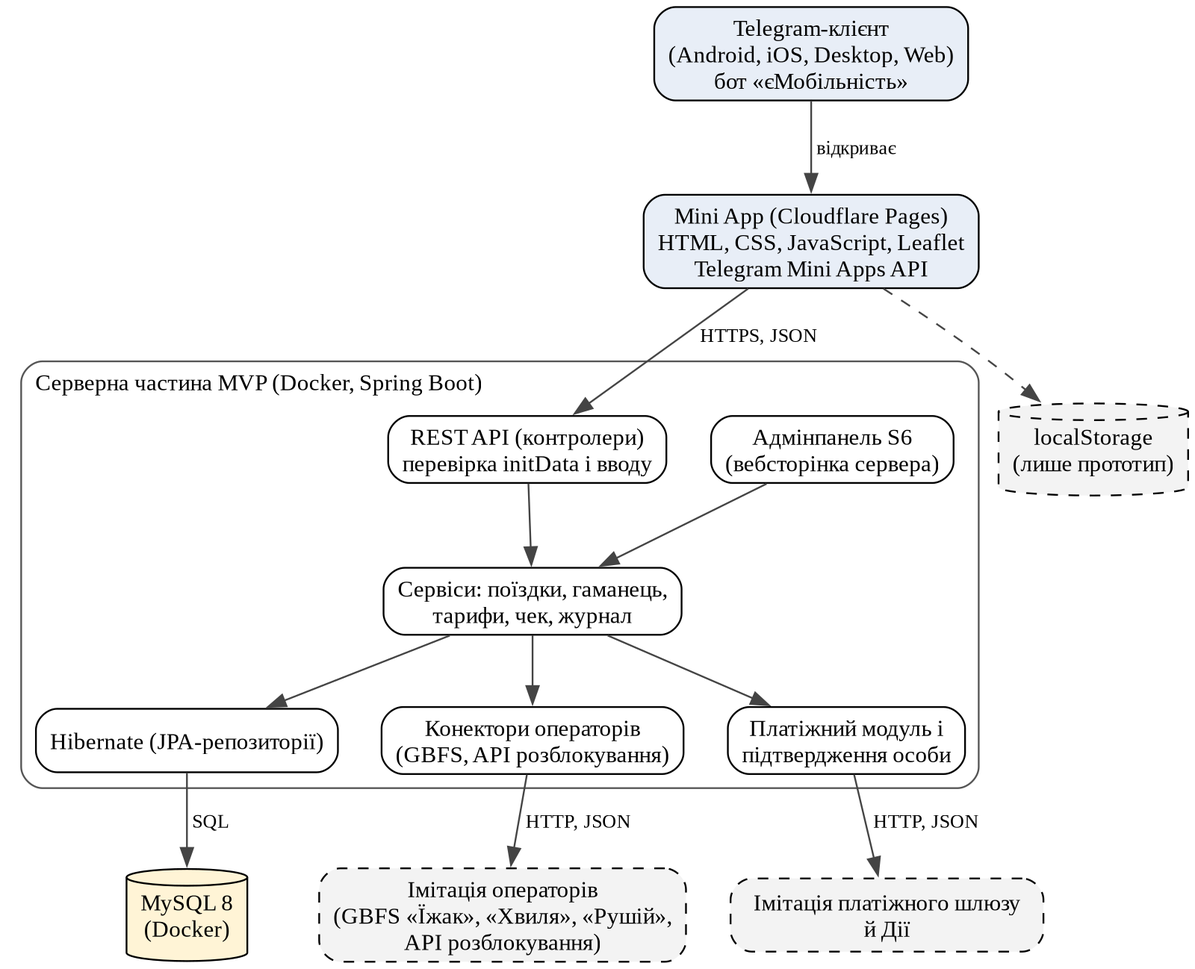
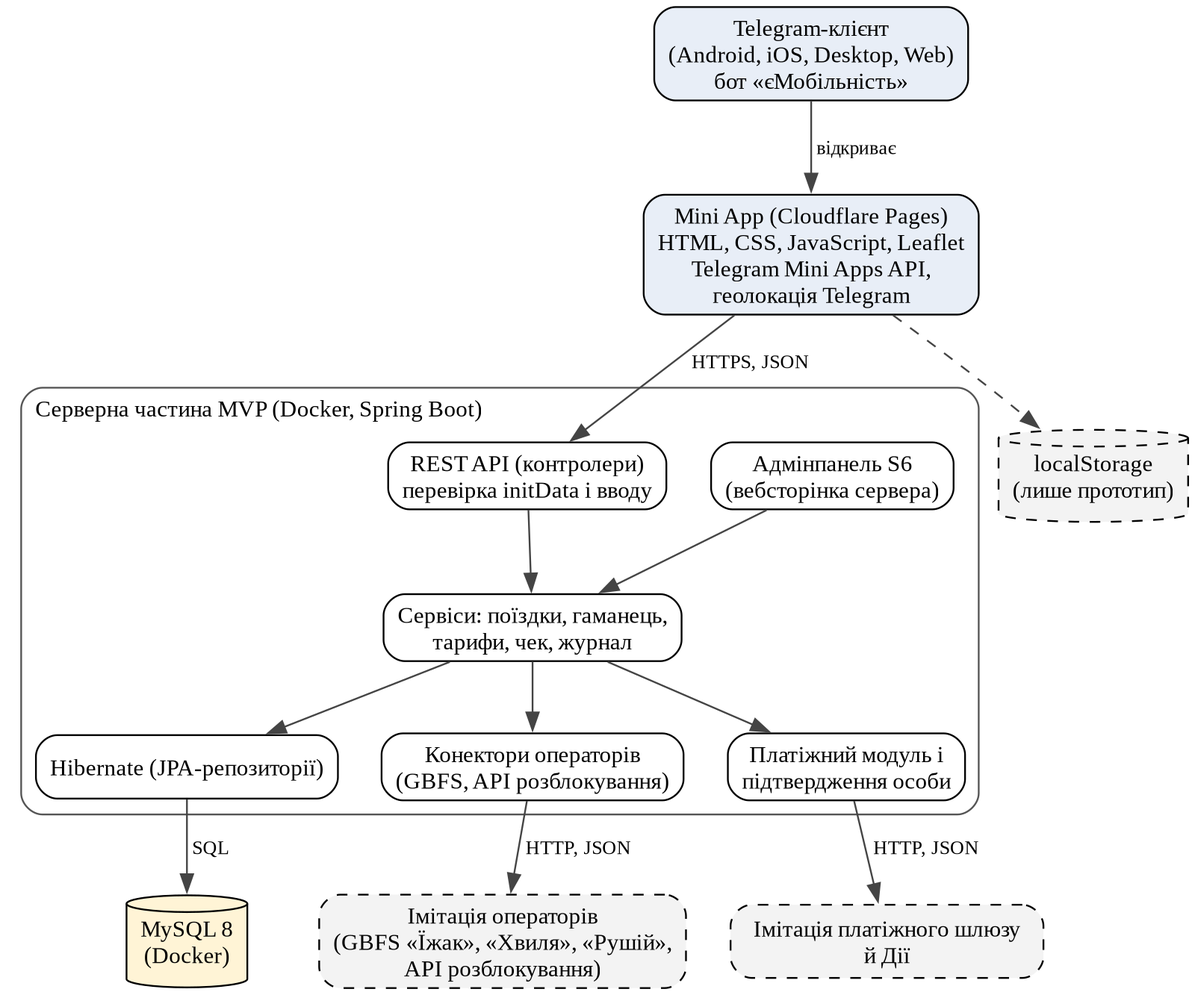
docs(dt): apply owner decisions to MVP spec

diff --git a/digital_tech/tz/report.md b/digital_tech/tz/report.md
@@ -20,7 +20,7 @@
 
 # 3 ПРИЗНАЧЕННЯ РОЗРОБКИ
 
-Розробка призначена для подолання фрагментації ринку мікромобільності. Зараз користувач тримає окремий застосунок кожного оператора, реєструється й прив'язує картку в кожному та вручну порівнює тарифи й заряд. Єдиної історії поїздок немає, а оператори втрачають клієнтів. «єМобільність» дає одну карту транспорту, один гаманець, порівняння ціни й заряду, розблокування через API оператора, єдиний чек та історію поїздок. Користувач заходить із Telegram, окремої реєстрації немає.
+Розробка призначена для подолання фрагментації ринку мікромобільності. Зараз користувач тримає окремий застосунок кожного оператора, реєструється й прив'язує картку в кожному та вручну порівнює тарифи й заряд. Єдиної історії поїздок немає, а оператори втрачають клієнтів. «єМобільність» дає одну карту транспорту, один гаманець, порівняння ціни й заряду, розблокування через API оператора, єдиний чек та історію поїздок. Користувач заходить із Telegram, окремої реєстрації немає. Користувач платить рівно тариф оператора; сервіс заробляє комісію 10 %, яку сплачує оператор із кожної поїздки, приведеної сервісом.
 
 Мета розробки: скоротити для користувача кількість реєстрацій і кроків до початку поїздки та зробити вибір транспорту порівнянним за ціною й зарядом. Досягнення мети перевіряється метриками з таблиці 1. Значення є цілями, а не результатами вимірювань: швидкодію API вимірюють на серверній частині MVP (10.12), решту метрик на прототипі (етап 6, 19.11).
 
@@ -28,7 +28,7 @@
 |--------------|----------------|----------------------------|
 | Кількість підключених операторів | не менше 3 (імітовані оператори «Їжак», «Хвиля», «Рушій») | У прототипі: кількість підключених каналів операторів у форматі GBFS. У MVP: записи operator зі статусом «активний» у БД |
 | Кількість реєстрацій для N операторів | 0 окремих реєстрацій: вхід акаунтом Telegram, одне підтвердження особи через Дію й один гаманець замість N | Порівняння сценаріїв: без сервісу N реєстрацій і N платіжних методів, із сервісом один вхід |
-| Кроки до розблокування | не більше 4 дотиків від відкритої карти (вхід, підтвердження особи й поповнення вже виконано) | Підрахунок дотиків за сценарієм у прототипі; база для порівняння: той самий сценарій у застосунку одного реального оператора |
+| Кроки до розблокування | не більше 4 дотиків від відкритої карти (вхід і підтвердження особи вже виконано) | Підрахунок дотиків за сценарієм у прототипі; база для порівняння: той самий сценарій у застосунку одного реального оператора |
 | Час від відкриття карти до розблокування | не більше 30 с | Секундомір, середнє з 5 прогонів команди в Telegram |
 | Швидкодія API карти | 95 % запитів до 2 с при 100 одночасних користувачах, помилок менше 1 % | Навантажувальний тест JMeter на запиті списку транспорту (серверна частина MVP) |
 | Доступність інтерфейсу | оцінка Lighthouse Accessibility не нижче 90 зі 100 | Lighthouse у Chrome на публічній адресі прототипу (Cloudflare Pages) |
@@ -54,23 +54,24 @@
 | Екран | Функція | Хто користується | Посилання на прототип |
 |-----|----------------------------------|-----------|-----------|
 | S1 | Вхід акаунтом Telegram і підтвердження особи (кнопка «Підтвердити особу через Дію», імітація) | Орендар | [README.md#s1](https://github.com/brizzinck/krinzhrepoduta/blob/main/digital_tech/prototype/README.md#s1) |
-| S2 | Гаманець: баланс, поповнення (імітований платіжний шлюз), список операцій | Орендар | [README.md#s2](https://github.com/brizzinck/krinzhrepoduta/blob/main/digital_tech/prototype/README.md#s2) |
-| S3 | Карта Києва (Leaflet) і список транспорту: фільтр за типом, сортування за ціною, відстанню й зарядом | Орендар | [README.md#s3](https://github.com/brizzinck/krinzhrepoduta/blob/main/digital_tech/prototype/README.md#s3) |
+| S2 | Гаманець: баланс, стартовий бонус, поповнення (імітований платіжний шлюз), список операцій | Орендар | [README.md#s2](https://github.com/brizzinck/krinzhrepoduta/blob/main/digital_tech/prototype/README.md#s2) |
+| S3 | Карта Києва (Leaflet, OpenStreetMap) з позицією користувача і список транспорту: фільтр за типом, сортування за ціною, відстанню й зарядом | Орендар | [README.md#s3](https://github.com/brizzinck/krinzhrepoduta/blob/main/digital_tech/prototype/README.md#s3) |
 | S4 | Поїздка: розблокування (імітований API оператора), таймер, поточна вартість, завершення | Орендар | [README.md#s4](https://github.com/brizzinck/krinzhrepoduta/blob/main/digital_tech/prototype/README.md#s4) |
-| S5 | Чек поїздки та історія поїздок усіх операторів | Орендар | [README.md#s5](https://github.com/brizzinck/krinzhrepoduta/blob/main/digital_tech/prototype/README.md#s5) |
-| S6 | Адмінпанель: оператори, транспорт, тарифи, поїздки й платежі (вебсторінка сервера, реалізується разом із серверною частиною MVP) | Адміністратор | [README.md#s6](https://github.com/brizzinck/krinzhrepoduta/blob/main/digital_tech/prototype/README.md#s6) |
+| S5 | Чек поїздки (ціна для користувача) та історія поїздок усіх операторів | Орендар | [README.md#s5](https://github.com/brizzinck/krinzhrepoduta/blob/main/digital_tech/prototype/README.md#s5) |
+| S6 | Адмінпанель: оператори, транспорт, тарифи, поїздки, платежі й комісія за операторами (вебсторінка сервера, реалізується разом із серверною частиною MVP) | Адміністратор | [README.md#s6](https://github.com/brizzinck/krinzhrepoduta/blob/main/digital_tech/prototype/README.md#s6) |
 
 : Таблиця 2 — Екрани прототипу
 
 ### 4.1.2 Для користувача
 
 - вхід автоматично за акаунтом Telegram; перед першою поїздкою одноразове підтвердження особи кнопкою «Підтвердити особу через Дію» (імітація); окремої реєстрації, e-mail і пароля немає (S1);
-- внутрішній гаманець: перегляд балансу й поповнення (імітований платіжний шлюз) (S2);
-- карта транспорту всіх підключених операторів із фільтром за типом: електросамокат, електровелосипед, скутер (S3);
-- порівняння найближчого транспорту: ціна старту, ціна за хвилину, рівень заряду й відстань (у прототипі від фіксованої точки біля ДУІКТ), сортування за ціною, відстанню або зарядом (S3);
+- внутрішній гаманець: перегляд балансу й поповнення (імітований платіжний шлюз); кожен новий користувач отримує стартовий бонус 200 грн, щоб почати без поповнення (S2);
+- карта (Leaflet, плитки OpenStreetMap) з реальною позицією користувача й транспортом усіх підключених операторів із фільтром за типом: електросамокат, електровелосипед, скутер (S3);
+- порівняння найближчого транспорту: ціна старту, ціна за хвилину, рівень заряду й відстань від користувача (у прототипі транспорт імітується на відстані до 1 км навколо користувача; якщо доступ до геолокації заборонено, береться точка біля ДУІКТ; у MVP транспорт надходить від операторів через сервер), сортування за ціною, відстанню або зарядом (S3);
 - розблокування вибраного транспорту через API оператора; воно можливе, якщо особу підтверджено, а баланс не менший за 100 грн (S4);
-- поїздка: час і поточна вартість; завершення кнопкою, а також автоматично, коли сума до сплати (тариф і комісія) досягає балансу; після завершення з гаманця списується тариф оператора плюс комісія сервісу 10 % (S4);
-- чек поїздки (оператор, транспорт, час, тариф, комісія, сума) та історія поїздок незалежно від оператора (S5).
+- поїздка: час і поточна вартість; завершення кнопкою; з гаманця списується рівно тариф оператора (S4);
+- попередження, коли після поточної вартості поїздки на балансі лишається 20 грн, із кнопкою «Поповнити»; якщо не поповнити, поїздка триває, а після завершення недостача стає боргом: його списують під час наступного поповнення, і нова поїздка блокується, доки борг є (S4);
+- чек поїздки (оператор, транспорт, час, тариф, сума до сплати) та історія поїздок незалежно від оператора (S5).
 
 Відкладено на наступні версії, тому в цій версії не реалізуються: бронювання, універсальна страховка, мультипас і підписки, тарифікація за кілометр, перевірка зон паркування, інтеграція з громадським транспортом, white-label рішення для операторів.
 
@@ -81,7 +82,7 @@
 - підключення й відключення операторів (S6);
 - керування транспортом: додавання, статус (вільний, у поїздці, не працює), заряд і позиція (S6);
 - керування тарифами операторів (S6);
-- перегляд поїздок і платежів з фільтром за оператором і датою та підсумком комісії за період (S6).
+- перегляд поїздок і платежів з фільтром за оператором і датою; комісія сервісу 10 %, яку сплачують оператори, за кожним оператором і за період (S6).
 
 Доступ до S6 має лише адміністратор; обліковий запис задається в налаштуваннях сервера.
 
@@ -95,13 +96,13 @@
 
 Вимоги мають два рівні: прототип (19.11), де всі дані лежать на пристрої, і MVP із серверною частиною (10.12).
 
-Контроль введення. У прототипі вхідні дані перевіряє клієнт: суму поповнення вибирають лише кнопками 100, 200 і 500 грн, тип транспорту й сортування теж беруться лише зі списку. У MVP ті самі перевірки виконує сервер за типом, довжиною й діапазоном, а перевірка на клієнті їх не замінює. Недопустимі дії (розблокування зайнятого транспорту, друга одночасна поїздка, розблокування без підтвердження особи або з балансом менше 100 грн) відхиляються зі зрозумілим повідомленням на обох рівнях.
+Контроль введення. У прототипі вхідні дані перевіряє клієнт: суму поповнення вибирають лише кнопками 100, 200 і 500 грн, тип транспорту й сортування теж беруться лише зі списку. У MVP ті самі перевірки виконує сервер за типом, довжиною й діапазоном, а перевірка на клієнті їх не замінює. Недопустимі дії (розблокування зайнятого транспорту, друга одночасна поїздка, розблокування без підтвердження особи, з балансом менше 100 грн або за наявності боргу) відхиляються зі зрозумілим повідомленням на обох рівнях.
 
-Цілісність даних. У прототипі дані зберігаються в `localStorage` застосунку на пристрої користувача. Це лише для демонстрації (збереження не гарантоване), тому є кнопка «Скинути демо-дані». Баланс не стає від'ємним, бо поїздка завершується автоматично, коли сума до сплати досягає балансу. У MVP джерелом даних є сервер: вони зберігаються в MySQL (за перевіреним Telegram id) із зовнішніми ключами (транспорт до оператора й тарифу, поїздка до користувача й транспорту, платіж до гаманця й поїздки). Завершення поїздки, списання коштів і звільнення транспорту виконуються в одній транзакції, баланс має обмеження «не менше нуля».
+Цілісність даних. У прототипі дані зберігаються в `localStorage` застосунку на пристрої користувача. Це лише для демонстрації (збереження не гарантоване), тому є кнопка «Скинути демо-дані». Баланс може стати від'ємним лише як борг за одну поточну поїздку: наступне поповнення спершу гасить борг, а нову поїздку заблоковано, доки борг є. У MVP джерелом даних є сервер: вони зберігаються в MySQL (за перевіреним Telegram id) із зовнішніми ключами (транспорт до оператора й тарифу, поїздка до користувача й транспорту, платіж до гаманця й поїздки). Завершення поїздки, списання коштів і звільнення транспорту виконуються в одній транзакції; борг зберігається як від'ємний баланс, і сервер відхиляє нову поїздку, поки він є.
 
 Відновлення після збоїв. У прототипі дані не відновлюються: очищення сховища Telegram або браузера стирає їх. У MVP резервна копія MySQL створюється щодоби, відновлення з копії займає не більше 30 хвилин. Поїздка, перервана збоєм, відновлюється за станом у БД: час початку зберігається, вартість розраховується під час завершення. Цільова доступність серверної частини 99 % на місяць, режим 24/7.
 
-Захист даних. Зберігаються лише Telegram id, ім'я, username (необов'язковий у Telegram), ознака й час підтвердження через Дію, поїздки й платежі. У прототипі дані користувача Telegram беруться з Mini App без перевірки підпису. У MVP сервер перевіряє підпис initData за токеном бота та свіжість `auth_date` і відхиляє підроблені або застарілі запити. Дані картки не збираються: оплата імітована. Telegram Stars призначені лише для цифрових товарів, а поїздка є фізичною послугою, тому реальна оплата йшла б через платіжного провайдера, а гаманець його імітує. Геолокація не зберігається. Mini App відкривається лише за адресою HTTPS, тому й обмін із сервером іде через HTTPS. Обробка відповідає Закону України «Про захист персональних даних»: дані поїздок і платежів зберігаються 3 роки, після чого знеособлюються, дані користувача видаляються за запитом. Умови Telegram для розробників вимагають доступної політики конфіденційності: у прототипі це сторінка «Політика конфіденційності» в «Профілі», у MVP вона вказується й у @BotFather.
+Захист даних. Зберігаються лише Telegram id, ім'я, username (необов'язковий у Telegram), ознака й час підтвердження через Дію, поїздки й платежі. Геолокація користувача потрібна для карти й відстані й ніде не зберігається: у прототипі вона лишається на пристрої, у MVP передається серверу лише в запиті списку найближчого транспорту. У прототипі дані користувача Telegram беруться з Mini App без перевірки підпису. У MVP сервер перевіряє підпис initData за токеном бота та свіжість `auth_date` і відхиляє підроблені або застарілі запити. Дані картки не збираються: оплата імітована. Telegram Stars призначені лише для цифрових товарів, а поїздка є фізичною послугою, тому реальна оплата йшла б через платіжного провайдера, а гаманець його імітує. Mini App відкривається лише за адресою HTTPS, тому й обмін із сервером іде через HTTPS. Обробка відповідає Закону України «Про захист персональних даних»: дані поїздок і платежів зберігаються 3 роки, після чого знеособлюються, дані користувача видаляються за запитом. Умови Telegram для розробників вимагають доступної політики конфіденційності: у прототипі це сторінка «Політика конфіденційності» в «Профілі», у MVP вона вказується й у @BotFather.
 
 ## 4.3 Умови експлуатації
 
@@ -143,7 +144,7 @@
 Вхідні дані повинні бути представлені в такому форматі:
 
 - канали операторів у підмножині формату GBFS v3 (JSON): `vehicle_status` (`vehicle_id`, координати `lat` і `lon` в градусах WGS 84, `vehicle_type_id`, `is_reserved`, `is_disabled`, необов'язкові `current_fuel_percent` (заряд від 0 до 1) і `pricing_plan_id`) і `system_pricing_plans` (ціна розблокування в `plans[].price`, ціна за хвилину в `per_min_pricing[].rate`, `currency` UAH);
-- дані користувача: Telegram id, ім'я й необов'язковий username з initData Mini App;
+- дані користувача: Telegram id, ім'я й необов'язковий username з initData Mini App; позиція користувача (широта й довгота) через Telegram LocationManager з дозволу користувача, запасний варіант: геолокація браузера;
 - відповідь партнерського API оператора на команду розблокування чи блокування (JSON) і сума поповнення в гривнях;
 - дата й час у форматі RFC 3339 (ISO 8601), зберігаються в UTC.
 
@@ -155,7 +156,7 @@
 
 - екрани S1–S5 і адмінпанель S6: HTML;
 - відповіді API клієнту: JSON;
-- чек та історія поїздок: екран Mini App, у MVP також JSON від API;
+- чек (ціна для користувача) та історія поїздок: екран Mini App, у MVP також JSON від API;
 - команди до API операторів (розблокування, блокування): JSON.
 
 ### 4.5.3 Вимоги до мови розробки
@@ -243,10 +244,10 @@
 
 | Вид | Як проводиться | Що перевіряється | Що фіксується |
 |--------------|------------------------|--------------------------|----------------------|
-| Функціональне й негативне (прототип) | Сценарій S1–S5 від входу до чека в Telegram Desktop і на Android; негативні сценарії: баланс менше 100 грн, немає підтвердження через Дію, оператор відмовив у розблокуванні | Усі функції з 4.1.2, відмова з повідомленням без пошкодження даних | Таблиця «сценарій, очікуваний результат, фактичний результат» |
+| Функціональне й негативне (прототип) | Сценарій S1–S5 від входу до чека в Telegram Desktop і на Android; негативні сценарії: баланс менше 100 грн, борг за попередню поїздку, немає підтвердження через Дію, оператор відмовив у розблокуванні, заборонена геолокація; попередження на 20 грн під час поїздки | Усі функції з 4.1.2; відмова з повідомленням або запасний варіант без пошкодження даних | Таблиця «сценарій, очікуваний результат, фактичний результат» |
 | Зручності (прототип) | 5 прогонів сценарію розблокування командою, секундомір і підрахунок дотиків | Кроки й час до розблокування | Значення з таблиці 1 |
 | Доступності (прототип) | Lighthouse (Accessibility) у Chrome на публічній адресі прототипу; перегляд у світлій і темній темі Telegram, зі збільшеним шрифтом | Контраст, підписи елементів, масштабування шрифту | Оцінка Lighthouse, перелік знайдених проблем і виправлень |
-| Модульне й API (MVP) | JUnit: розрахунок вартості з комісією, списання з гаманця; Postman: колекція запитів до API з імітованими операторами й MySQL у Docker | Правильність сервісів, коди відповідей і формат JSON | Пройдені й провалені тести й запити |
+| Модульне й API (MVP) | JUnit: розрахунок ціни й комісії оператора, списання з гаманця, борг; Postman: колекція запитів до API з імітованими операторами й MySQL у Docker | Правильність сервісів, коди відповідей і формат JSON | Пройдені й провалені тести й запити |
 | Навантажувальне (MVP) | JMeter: 100 одночасних користувачів, запит списку транспорту | Час відповіді, частка помилок | 95-й перцентиль і частка помилок; ціль з таблиці 1 |
 | Безпеки (MVP) | OWASP ZAP (базове сканування); запит із підробленим initData; доступ до S6 без облікового запису адміністратора | Вразливості введення, відхилення підроблених і чужих запитів | Перелік знахідок і виправлень |
 
@@ -255,7 +256,7 @@
 Приймання виконується у два кроки. Прототип приймається на демонстрації 19.11 і на конференції 03.12, якщо:
 
 - бот «єМобільність» відкриває Mini App, а повний сценарій S1–S5 від входу до чека й історії поїздок проходить без помилок;
-- негативні сценарії завершуються відмовою з повідомленням і не псують дані;
+- негативні сценарії завершуються відмовою з повідомленням або запасним варіантом (точка біля ДУІКТ, якщо геолокацію заборонено) і не псують дані;
 - метрики з таблиці 1, крім швидкодії API, виміряно, а результати наведено в пояснювальній записці;
 - вихідні коди, документація й схеми передано в складі, визначеному розділом 5.
 
